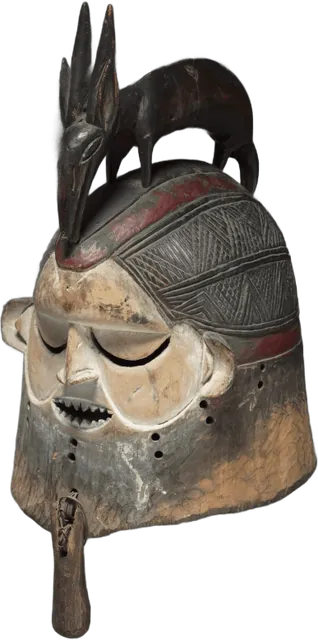
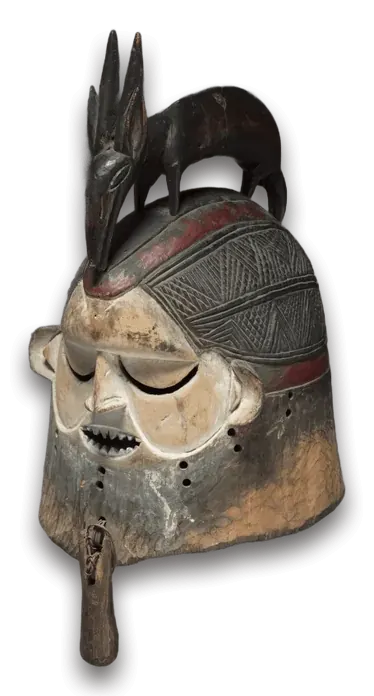
Performances : chrono allégé, ombres intégrées aux images, site en fichiers séparés
- Le chrono ne redessine plus que lui-même, 4 fois par seconde, sans transition SVG
  (fil principal 4x moins occupé, recalcul de styles 11x moins)
- Ombres portées et teinte des plantes intégrées aux images : plus de filtre CSS
  sur les éléments animés
- Chemins d'images relatifs et build:pages (GitHub Pages) avec images en cache
- Préchargement du masque principal

diff --git a/src/SoloView.jsx b/src/SoloView.jsx
@@ -741,19 +741,34 @@ const VERDICTS = {
 
 const TYPE_LABEL = { choice: null, tf: 'Vrai ou faux ?', image: 'Reconnais l’œuvre' };
 
-function QuestionPanel({ question, result, isLast, onAnswer, onNext }) {
-  const [deadline] = useState(() => performance.now() + QUESTION_DURATION_MS);
-  const live = useCountdown(result ? null : deadline);
-  // Une fois la réponse donnée, le chrono se fige sur le temps de réponse.
-  const elapsedMs = result ? result.elapsedMs : live.elapsedMs;
-  const remainingMs = QUESTION_DURATION_MS - elapsedMs;
+/** Chrono + points en jeu : seul ce petit bloc se redessine à chaque tic. */
+function LiveClock({ deadline }) {
+  const { remainingMs, elapsedMs } = useCountdown(deadline);
   const points = pointsForElapsed(elapsedMs);
   const nextDropIn = Math.ceil((TIER_DURATION_MS - (elapsedMs % TIER_DURATION_MS)) / 1000);
+  return (
+    <div className="flex items-center gap-3 rounded-xl bg-kin-night/90 py-1.5 pl-4 pr-1.5">
+      <div className="text-right leading-tight">
+        <span className="block font-num text-3xl text-kin-gold">{points}</span>
+        <span className="block text-[0.7rem] font-semibold text-kin-cream/70">
+          {points > 10 ? `pts · ${points - 10} dans ${nextDropIn} s` : 'pts en jeu'}
+        </span>
+      </div>
+      <TimerRing remainingMs={remainingMs} size={58} stroke={5} />
+    </div>
+  );
+}
+
+function QuestionPanel({ question, result, isLast, onAnswer, onNext }) {
+  const [deadline] = useState(() => performance.now() + QUESTION_DURATION_MS);
   const isTf = question.type === 'tf';
 
+  // Une seule minuterie pour le temps écoulé, au lieu de vérifier à chaque tic.
   useEffect(() => {
-    if (!result && live.remainingMs <= 0) onAnswer(TIMEOUT);
-  }, [live.remainingMs, result, onAnswer]);
+    if (result) return undefined;
+    const id = setTimeout(() => onAnswer(TIMEOUT), Math.max(0, deadline - performance.now()));
+    return () => clearTimeout(id);
+  }, [result, deadline, onAnswer]);
 
   const choose = (choice) => {
     if (result) return;
@@ -793,15 +808,7 @@ function QuestionPanel({ question, result, isLast, onAnswer, onNext }) {
               </span>
             </span>
           ) : (
-            <div className="flex items-center gap-3 rounded-xl bg-kin-night/90 py-1.5 pl-4 pr-1.5">
-              <div className="text-right leading-tight">
-                <span className="block font-num text-3xl text-kin-gold">{points}</span>
-                <span className="block text-[0.7rem] font-semibold text-kin-cream/70">
-                  {points > 10 ? `pts · ${points - 10} dans ${nextDropIn} s` : 'pts en jeu'}
-                </span>
-              </div>
-              <TimerRing remainingMs={remainingMs} size={58} stroke={5} />
-            </div>
+            <LiveClock deadline={deadline} />
           )}
         </div>
         <div className={`relative z-10 ${question.type === 'image' ? 'grid items-center gap-5 sm:grid-cols-[9rem_minmax(0,1fr)]' : ''}`}>

diff --git a/src/masks.js b/src/masks.js
@@ -3,15 +3,15 @@
 const SOURCE = 'Cleveland Museum of Art · domaine public';
 
 export const MASKS = {
-  'pende-gambanda': { src: '/masks/pende-gambanda.webp', label: 'Masque féminin Gambanda', people: 'Pende' },
-  'pende-munyangi': { src: '/masks/pende-munyangi.webp', label: 'Masque Munyangi', people: 'Pende' },
-  'kuba-bwoom': { src: '/masks/kuba-bwoom.webp', label: 'Masque Bwoom', people: 'Kuba' },
-  'yaka-ndeemba': { src: '/masks/yaka-ndeemba.webp', label: 'Masque Ndeemba', people: 'Yaka' },
-  'suku-hemba': { src: '/masks/suku-hemba.webp', label: 'Masque-heaume Hemba', people: 'Suku' },
-  'kongo-nkisi': { src: '/masks/kongo-nkisi.webp', label: 'Figure Nkisi Nkondi', people: 'Kongo' },
-  'songye-nkishi': { src: '/masks/songye-nkishi.webp', label: 'Figure Nkishi', people: 'Songye' },
-  'bembe-emangungu': { src: '/masks/bembe-emangungu.webp', label: 'Masque Emangungu', people: 'Bembe' },
-  'hemba-janus': { src: '/masks/hemba-janus.webp', label: 'Figure Janus', people: 'Hemba' },
+  'pende-gambanda': { src: 'masks/pende-gambanda.webp', label: 'Masque féminin Gambanda', people: 'Pende' },
+  'pende-munyangi': { src: 'masks/pende-munyangi.webp', label: 'Masque Munyangi', people: 'Pende' },
+  'kuba-bwoom': { src: 'masks/kuba-bwoom.webp', label: 'Masque Bwoom', people: 'Kuba' },
+  'yaka-ndeemba': { src: 'masks/yaka-ndeemba.webp', label: 'Masque Ndeemba', people: 'Yaka' },
+  'suku-hemba': { src: 'masks/suku-hemba.webp', label: 'Masque-heaume Hemba', people: 'Suku' },
+  'kongo-nkisi': { src: 'masks/kongo-nkisi.webp', label: 'Figure Nkisi Nkondi', people: 'Kongo' },
+  'songye-nkishi': { src: 'masks/songye-nkishi.webp', label: 'Figure Nkishi', people: 'Songye' },
+  'bembe-emangungu': { src: 'masks/bembe-emangungu.webp', label: 'Masque Emangungu', people: 'Bembe' },
+  'hemba-janus': { src: 'masks/hemba-janus.webp', label: 'Figure Janus', people: 'Hemba' },
 };
 
 export const MASK_SOURCE = SOURCE;

diff --git a/src/components/Timer.jsx b/src/components/Timer.jsx
@@ -1,8 +1,12 @@
 import { useEffect, useState } from 'react';
 import { POINT_TIERS, QUESTION_DURATION_MS, TIER_DURATION_MS, pointsForElapsed } from '../../shared/scoring.js';
 
-/** Compte à rebours basé sur une échéance locale (performance.now()). */
-export function useCountdown(deadline, durationMs = QUESTION_DURATION_MS) {
+/**
+ * Compte à rebours basé sur une échéance locale (performance.now()).
+ * 4 mises à jour par seconde suffisent : les secondes et les paliers de points
+ * changent bien plus lentement, et chaque mise à jour a un coût de rendu.
+ */
+export function useCountdown(deadline, durationMs = QUESTION_DURATION_MS, intervalMs = 250) {
   const [now, setNow] = useState(() => performance.now());
 
   useEffect(() => {
@@ -12,9 +16,9 @@ export function useCountdown(deadline, durationMs = QUESTION_DURATION_MS) {
       const t = performance.now();
       setNow(t);
       if (t >= deadline) clearInterval(id);
-    }, 100);
+    }, intervalMs);
     return () => clearInterval(id);
-  }, [deadline]);
+  }, [deadline, intervalMs]);
 
   const remainingMs = deadline == null ? durationMs : Math.max(0, deadline - now);
   return { remainingMs, elapsedMs: durationMs - remainingMs };
@@ -46,7 +50,6 @@ export function TimerRing({ remainingMs, durationMs = QUESTION_DURATION_MS, size
           strokeLinecap="round"
           strokeDasharray={circumference}
           strokeDashoffset={circumference * (1 - fraction)}
-          style={{ transition: 'stroke-dashoffset 100ms linear, stroke 200ms' }}
         />
       </svg>
       <span

diff --git a/src/index.css b/src/index.css
@@ -67,8 +67,8 @@
     z-index: 30;
     pointer-events: none;
     user-select: none;
-    filter: brightness(0.8) saturate(0.9) drop-shadow(0 18px 24px rgba(0, 0, 0, 0.6));
-    /* Brise légère : `rotate` se combine avec le transform posé en ligne. */
+    will-change: rotate;
+    /* Ombre et teinte sont intégrées aux images. Brise légère : `rotate` se combine avec le transform posé en ligne. */
     animation: leaf-sway 9s ease-in-out infinite;
   }
   @media (max-width: 639px) {
@@ -114,12 +114,12 @@
     -webkit-mask-image: radial-gradient(closest-side, #000 30%, transparent 100%);
     mask-image: radial-gradient(closest-side, #000 30%, transparent 100%);
     pointer-events: none;
-    animation: sun-turn 80s linear infinite;
   }
 
   /* Totems : léger balancement, la base reste posée */
   .totem {
     transform-origin: 50% 100%;
+    will-change: rotate, translate;
     animation: totem-sway 6.5s ease-in-out infinite;
   }
 
@@ -139,6 +139,7 @@
     background: radial-gradient(closest-side, rgba(232, 150, 80, 0.3), transparent);
     pointer-events: none;
     /* Lueur de flamme qui vacille doucement */
+    will-change: opacity, scale;
     animation: torch 3.8s ease-in-out infinite;
   }
   .mask-stage::after {
@@ -378,7 +379,6 @@
     z-index: 5;
     pointer-events: none;
     user-select: none;
-    filter: brightness(0.82) saturate(0.9) drop-shadow(0 10px 14px rgba(0, 0, 0, 0.55));
   }
 
   /* ---------- Boutons ---------- */

diff --git a/solo.html b/solo.html
@@ -3,7 +3,24 @@
   <head>
     <meta charset="UTF-8" />
     <meta name="viewport" content="width=device-width, initial-scale=1, viewport-fit=cover" />
+    <meta name="theme-color" content="#2B1704" />
+    <meta
+      name="description"
+      content="Le grand quiz de la culture congolaise : 4 tours de questions sur l’histoire, la musique, la nature et les masques du Congo."
+    />
     <title>Kin Quiz</title>
+    <link rel="icon" type="image/webp" href="/masks/pende-gambanda.webp" />
+    <link rel="preload" as="image" href="/masks/pende-gambanda.webp" />
+    <link rel="preconnect" href="https://fonts.googleapis.com" />
+    <link rel="preconnect" href="https://fonts.gstatic.com" crossorigin />
+    <link href="https://fonts.googleapis.com/css2?family=Kenia&family=Manrope:wght@400..800&display=swap" rel="stylesheet" />
+    <style>
+      html,
+      body {
+        background: #2b1704;
+        color-scheme: dark;
+      }
+    </style>
   </head>
   <body>
     <div id="root"></div>

diff --git a/src/components/ui.jsx b/src/components/ui.jsx
@@ -4,7 +4,7 @@ import { MASKS, MASK_SOURCE } from '../masks.js';
 // Photos de masques détourées (public/masks) ; le djembé reste une illustration SVG.
 export const ILLUSTRATIONS = {
   masque: MASKS['pende-gambanda'].src,
-  djembe: '/illustrations/djembe.svg',
+  djembe: 'illustrations/djembe.svg',
   pretre: MASKS['songye-nkishi'].src,
   yuma: MASKS['bembe-emangungu'].src,
 };
@@ -37,7 +37,7 @@ export function MaskFigure({ name, className = '', caption = false, decorative =
           aria-hidden={decorative || undefined}
           draggable={false}
           style={still ? undefined : { animationDelay: delayFor(name) }}
-          className={`relative z-10 max-h-full max-w-full select-none object-contain drop-shadow-[0_28px_32px_rgba(0,0,0,0.6)] ${still ? '' : 'totem'}`}
+          className={`relative z-10 max-h-full max-w-full select-none object-contain ${still ? '' : 'totem'}`}
         />
       </div>
       {caption && (

diff --git a/src/components/Foliage.jsx b/src/components/Foliage.jsx
@@ -2,13 +2,13 @@
 // Illustrations botaniques CC0 (rawpixel, domaine public), arrière-plan supprimé.
 
 const PLANT = {
-  palm: '/plants/palm-botanical.webp',
-  monstera: '/plants/monstera.webp',
-  fronds: '/plants/fronds-fern.webp',
-  ravenala: '/plants/ravenala.webp',
-  fern: '/plants/fern-leaf.webp',
-  banana: '/plants/banana.webp',
-  elephantEar: '/plants/elephant-ear.webp',
+  palm: 'plants/palm-botanical.webp',
+  monstera: 'plants/monstera.webp',
+  fronds: 'plants/fronds-fern.webp',
+  ravenala: 'plants/ravenala.webp',
+  fern: 'plants/fern-leaf.webp',
+  banana: 'plants/banana.webp',
+  elephantEar: 'plants/elephant-ear.webp',
 };
 
 // Sur les bords de l'écran (fixes, au-dessus du contenu, sans bloquer les clics).

diff --git a/README.md b/README.md
@@ -23,10 +23,12 @@ La version solo est publiée depuis la branche `gh-pages` du dépôt.
 Pour redéployer après une modification :
 
 ```
-npm run build:solo
+npm run build:pages
 ```
 
-Puis poussez le contenu de `build/site/` (`index.html` et `.nojekyll`) sur la branche `gh-pages`. GitHub Pages ne sert que des fichiers statiques : la version multijoueur, qui a besoin du serveur Node, doit être hébergée ailleurs (voir « Mise en ligne (Render) »).
+Puis poussez le contenu de `dist-solo/` sur la branche `gh-pages`. Les images y sont des fichiers séparés, ce qui permet au navigateur de les mettre en cache. Pour tester en local exactement comme sur GitHub : `node scripts/preview-pages.mjs`, puis ouvrez http://localhost:4173/QUIZCULTUREL/.
+
+`npm run build:solo` produit quant à lui une page unique tout-en-un (`build/kin-quiz-solo.html`), pratique à partager comme simple fichier, mais plus lourde à charger. GitHub Pages ne sert que des fichiers statiques : la version multijoueur, qui a besoin du serveur Node, doit être hébergée ailleurs (voir « Mise en ligne (Render) »).
 
 ## En local
 
